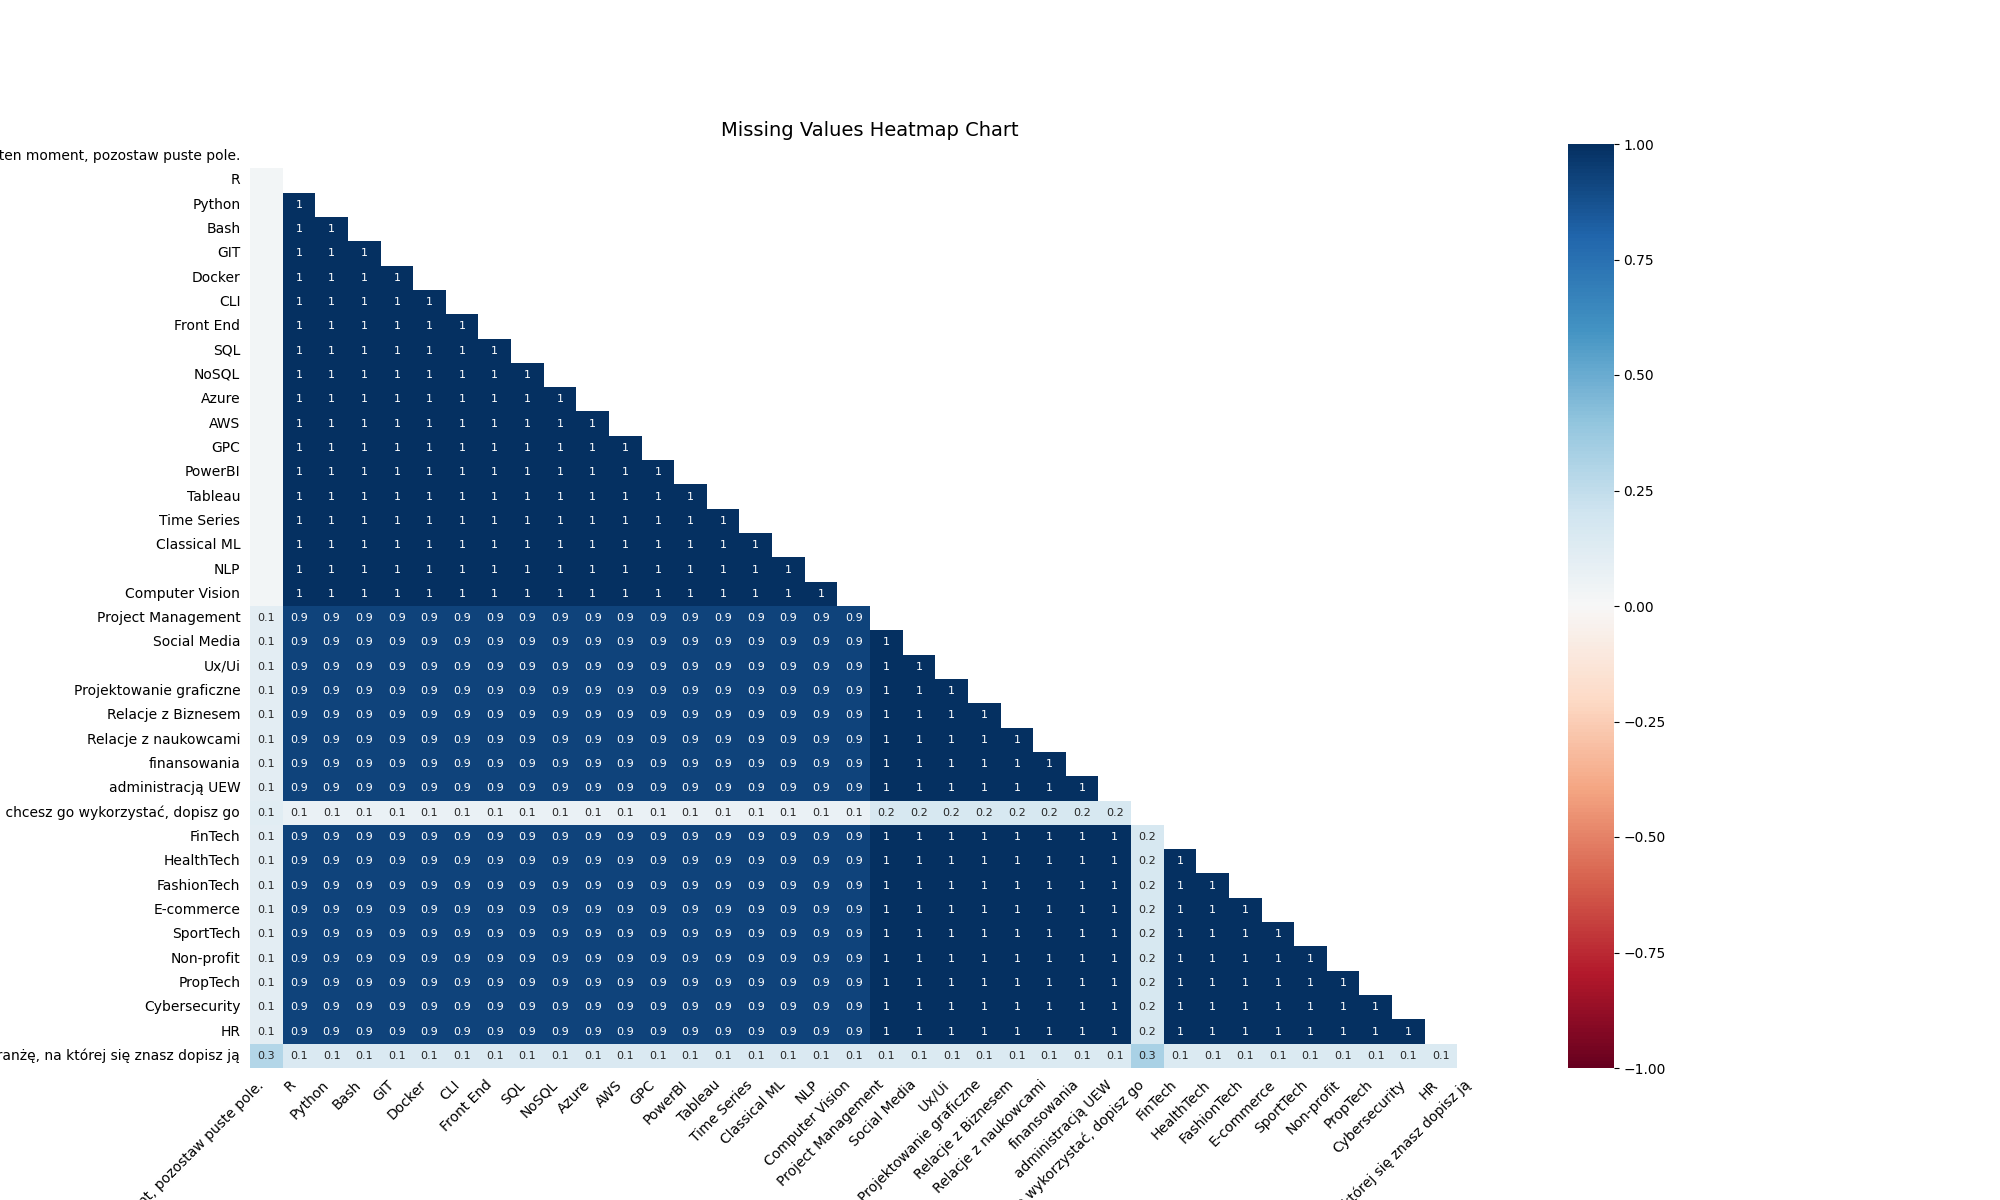
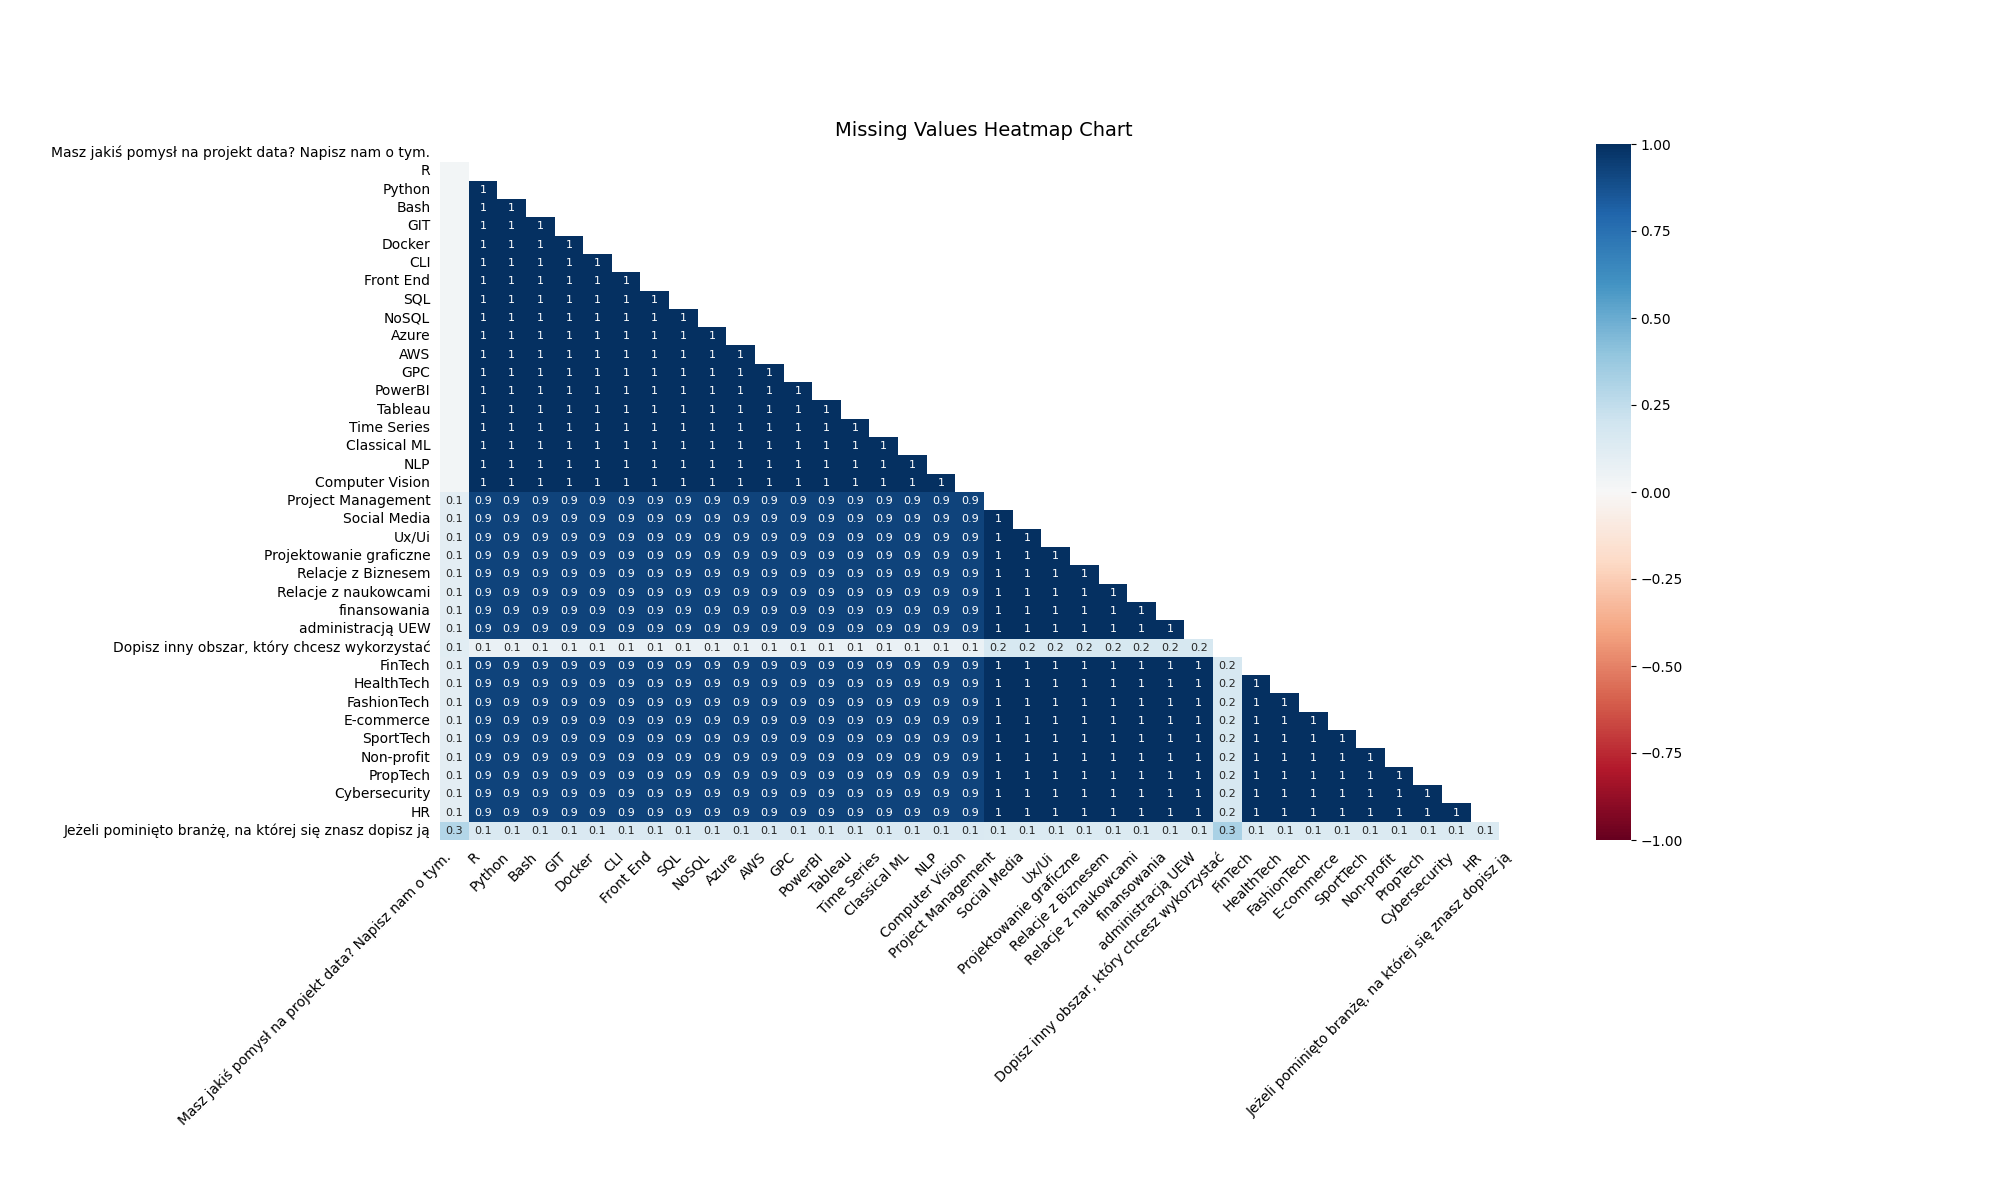
Updated 01 script with comments, changes to graphs and pathing

diff --git a/notebooks/01_raw_data_transformation.py b/notebooks/01_raw_data_transformation.py
@@ -1,18 +1,18 @@
 import pandas as pd
 import os
-import missingno as msno
+import missingno as msno 
 import matplotlib.pyplot as plt
 import re
 
-    
+#Loading and reading the raw data
 os.chdir(r'data')
-
 file_name = r'01_Raw\01_DataCompetencySurvey.csv'
-
 df = pd.read_csv(file_name)
 
-df.info()
+#See column data types and non-null row count 
+print(df.info())
 
+#Cleaning up column names
 def rename_columns(columns):
     renamed_columns = []
     for col in columns:
@@ -32,39 +32,48 @@ def rename_columns(columns):
     return renamed_columns
 
 df.columns = rename_columns(df.columns)
-df.info()
-#bars indicating amount of missing values in each column
+
+df.rename(columns={'Masz jakiś pomysł na projekt data? Napisz nam o tym. Jeżeli to nie ten moment, pozostaw puste pole.': 'Masz jakiś pomysł na projekt data? Napisz nam o tym.',
+          'Jeżeli jest obszar, na którym się znasz i chcesz go wykorzystać, dopisz go': 'Dopisz inny obszar, który chcesz wykorzystać'},
+          inplace=True)
+#See updated columns info
+print(df.info())
+
+#Bar chart indicating amount of missing values in each column
 os.chdir(r'..\figures')
 msno.bar(df, figsize=(20, 12), fontsize=10)
-plt.title('Missing Values Bar Chart', fontsize=14)  # Adjust the plot title font size
-
-# Save the figure with the specified size and layout adjustments
+plt.title('Missing Values Bar Chart', fontsize=14)
+plt.subplots_adjust(bottom=0.3)
 plt.savefig('01_missing_val_bar_chart.png')
 plt.show()
 
-#matrix indicating missing values (white) in dataset
-msno.matrix(df, figsize=(20, 12), fontsize=10)
+#Matrix indicating missing values (white) in dataset
+msno.matrix(df, figsize=(20, 12), color=(0.196, 0.537, 0.855), fontsize=10)
+plt.text(-0.15, 1.1, 'Missing value = white', fontsize=12, transform=plt.gca().transAxes,
+         verticalalignment='top', horizontalalignment='left', bbox=dict(facecolor='white', alpha=0.5, edgecolor='black', boxstyle='round,pad=0.5'), fontweight='bold')
 plt.title('Missing Values Matrix Chart', fontsize=14)
+plt.subplots_adjust(top=0.65)
 plt.savefig('01_missing_val_matrix_chart.png')
 plt.show()
-#heatmap indicating correlation between missing values between columns
+
+#Heatmap indicating correlation between missing values between columns
 msno.heatmap(df, figsize=(20, 12), fontsize=10)
+plt.xticks(rotation=45, ha='right', fontsize=10)  # Rotate labels 45 degrees and align right
+plt.yticks(rotation=0, fontsize=10)  # Keep y-axis labels horizontal
 plt.title('Missing Values Heatmap Chart', fontsize=14)
+plt.subplots_adjust(left=0.5, bottom=0.3)
 plt.savefig('01_missing_val_heatmap_chart.png')
 plt.show()
 
-
-
-#filtering necessary rows
+#Filtering necessary rows depending on respondent's desire to participate
 filtered_df = df[df.iloc[:, 7].str.contains("Chcę uczestniczyć", na=False)]
 
-
+#Filtering out unwanted columns with no value added (emails, time of survey, etc.)
 columns_to_drop = filtered_df.columns[1:6]
 filtered_df = filtered_df.drop(columns_to_drop, axis=1)
 
-
+#Saving interim data
 os.chdir(r'..\data')
-new_file_path = r'01_Raw\01_SelectedFeatures.csv'
+new_file_path = r'02_Interim\01_SelectedFeatures.csv'
 filtered_df.to_csv(new_file_path, index=False)
 print("File created succesfully")
-
